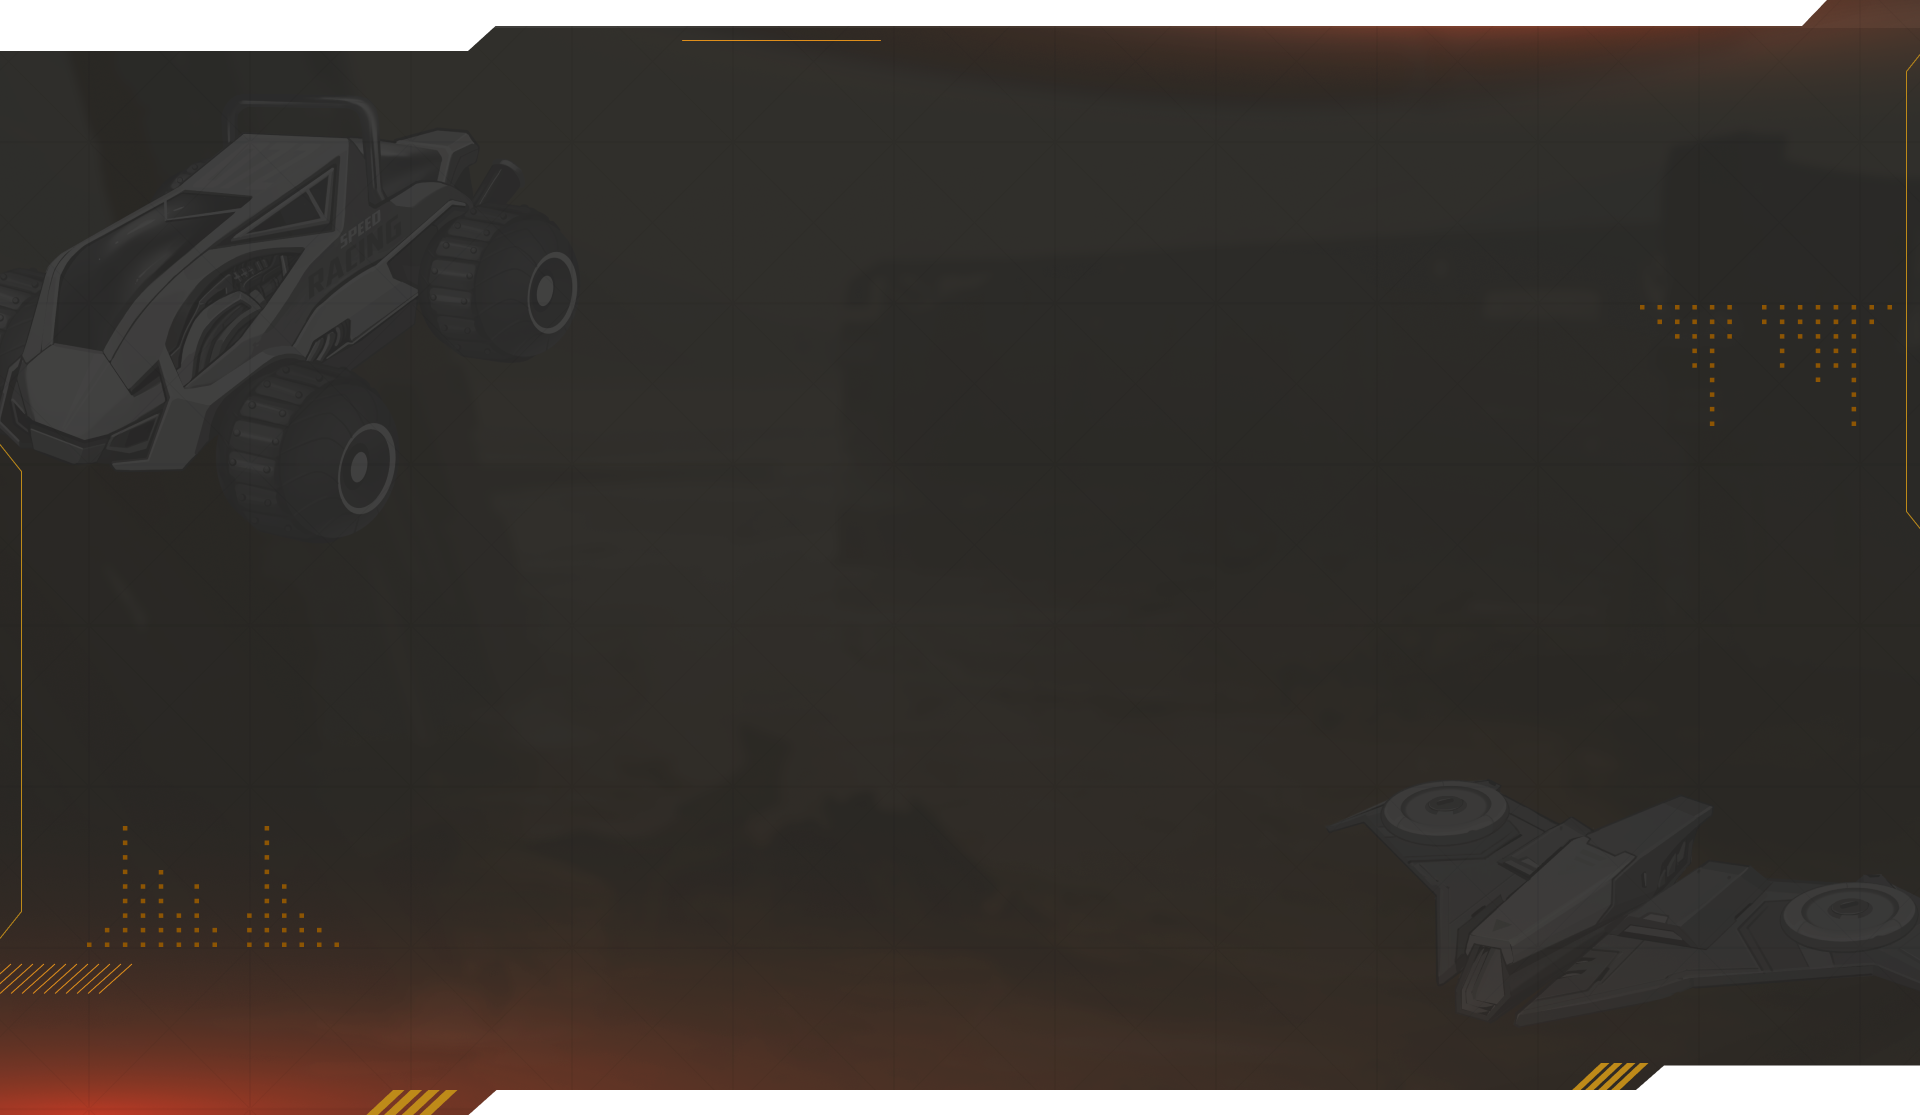
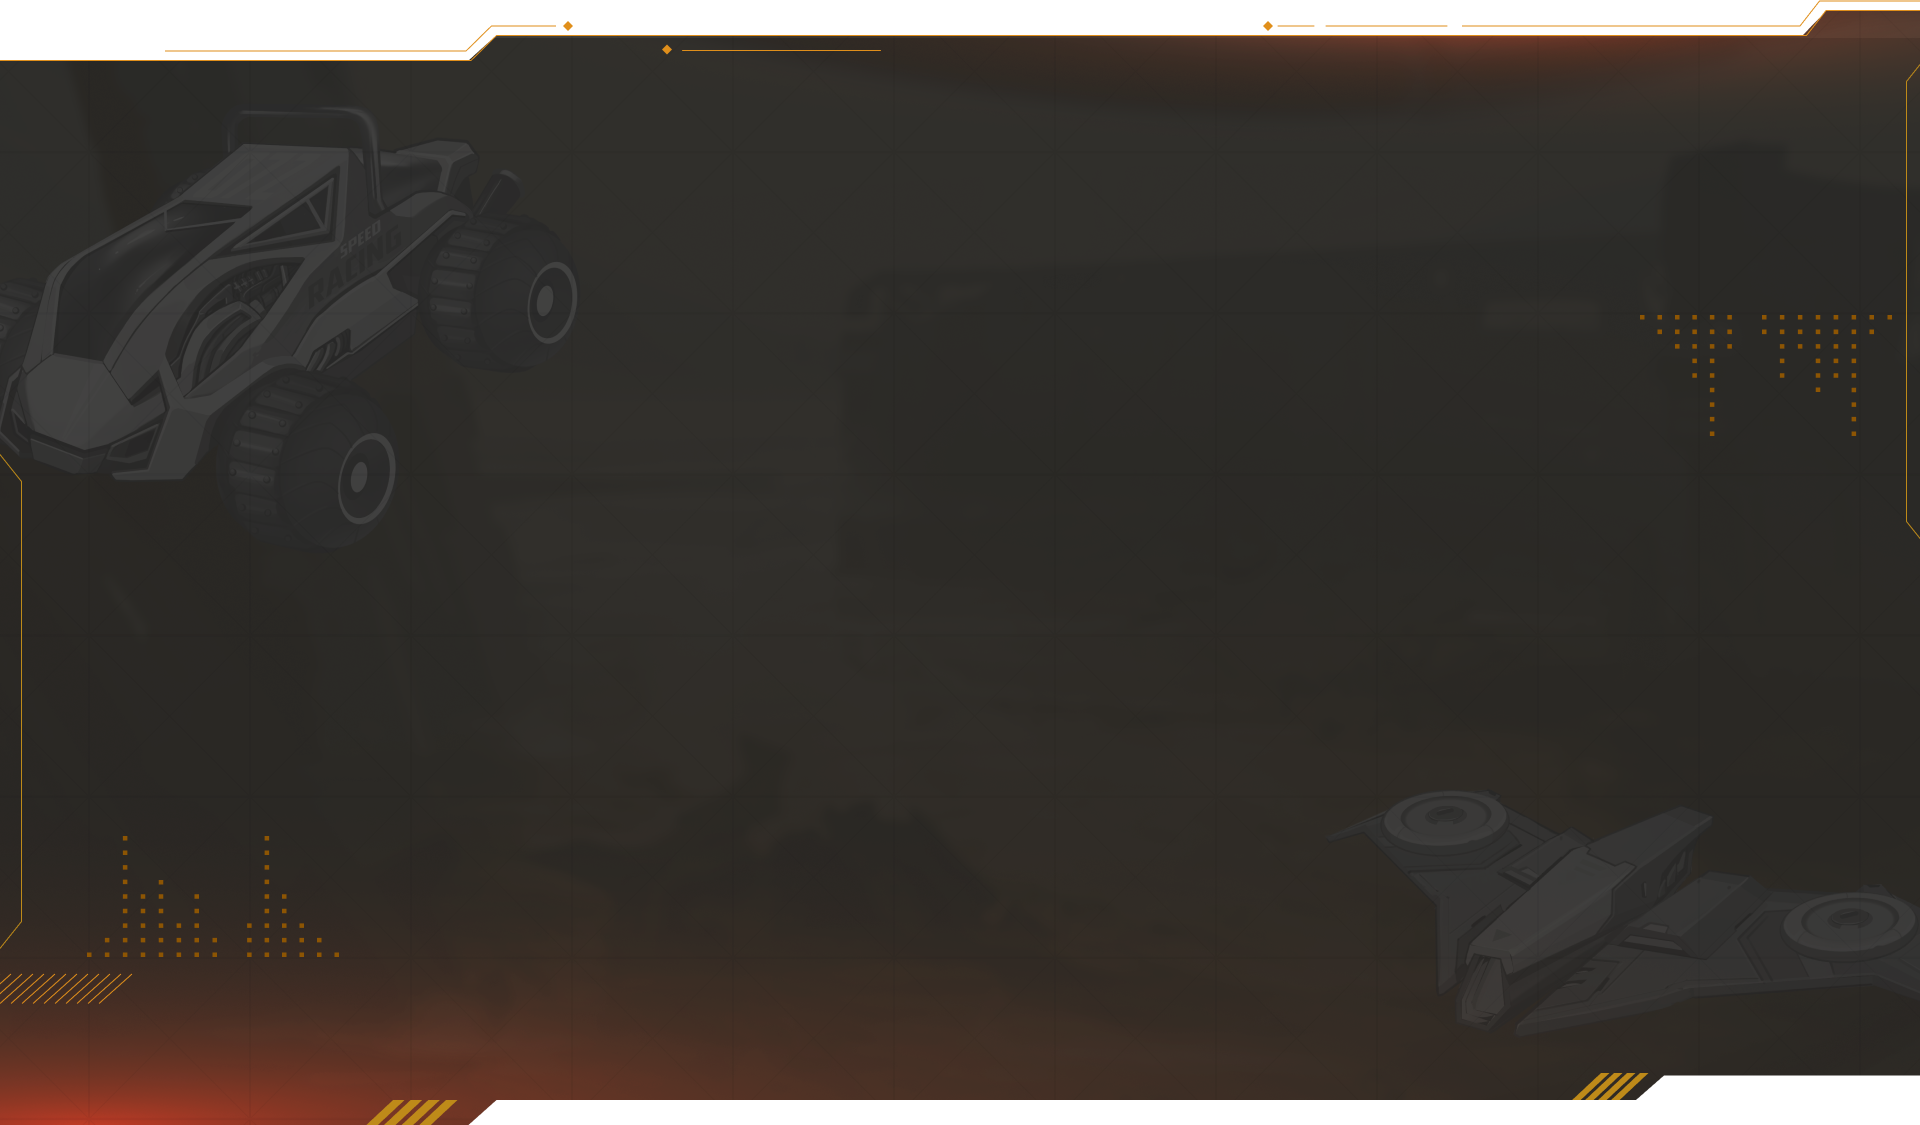
fix section background

Changed region(s): [[0.0, 0.0, 1.0, 0.061], [0.8438, 0.2744, 0.9688, 0.3354], [0.0, 0.8538, 0.0625, 0.8843]]

diff --git a/src/sections/BuildLand/styled.ts b/src/sections/BuildLand/styled.ts
@@ -4,11 +4,12 @@ import landBg from 'assets/images/slider/land.png'
 
 export const LandWrapper = styled(SectionWrapper)`
   position: relative;
-  margin-top: -55px;
+  margin-top: -54px;
   overflow: hidden;
   font-weight: 600;
   font-size: 24px;
   line-height: 33px;
+  z-index: 2;
 `
 
 export const SectionContent = styled.div`

diff --git a/src/sections/TeamMembers/styled.ts b/src/sections/TeamMembers/styled.ts
@@ -4,6 +4,7 @@ import styled from 'styled-components/macro'
 
 export const Wrapper = styled(SectionWrapper)`
   padding: 90px 0 55px 0;
+  margin-top: -15px;
   font-family: 'SFU Eurostile';
   font-weight: 400;
   font-size: 30px;

diff --git a/src/sections/WeaponSection/styled.ts b/src/sections/WeaponSection/styled.ts
@@ -4,8 +4,7 @@ import styled from 'styled-components/macro'
 
 export const WeaponSliderWrapper = styled(SectionWrapper)`
   position: relative;
-  margin-top: -52px;
-
+  margin-top: -62px;
   z-index: 2;
 `
 

diff --git a/src/sections/Roadmap/styled.ts b/src/sections/Roadmap/styled.ts
@@ -8,6 +8,7 @@ export const RoadmapWrapper = styled(SectionWrapper)`
   position: relative;
   text-align: center;
   margin-top: -52px;
+  z-index: -1;
 `
 
 export const TopHeading = styled.div`
